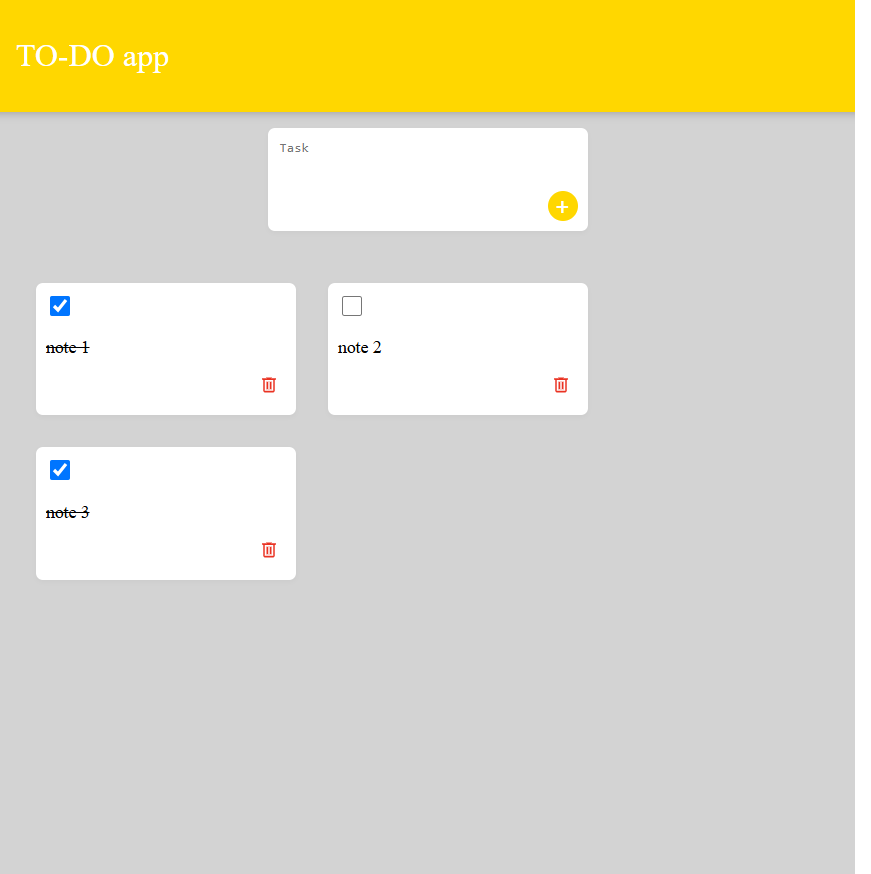
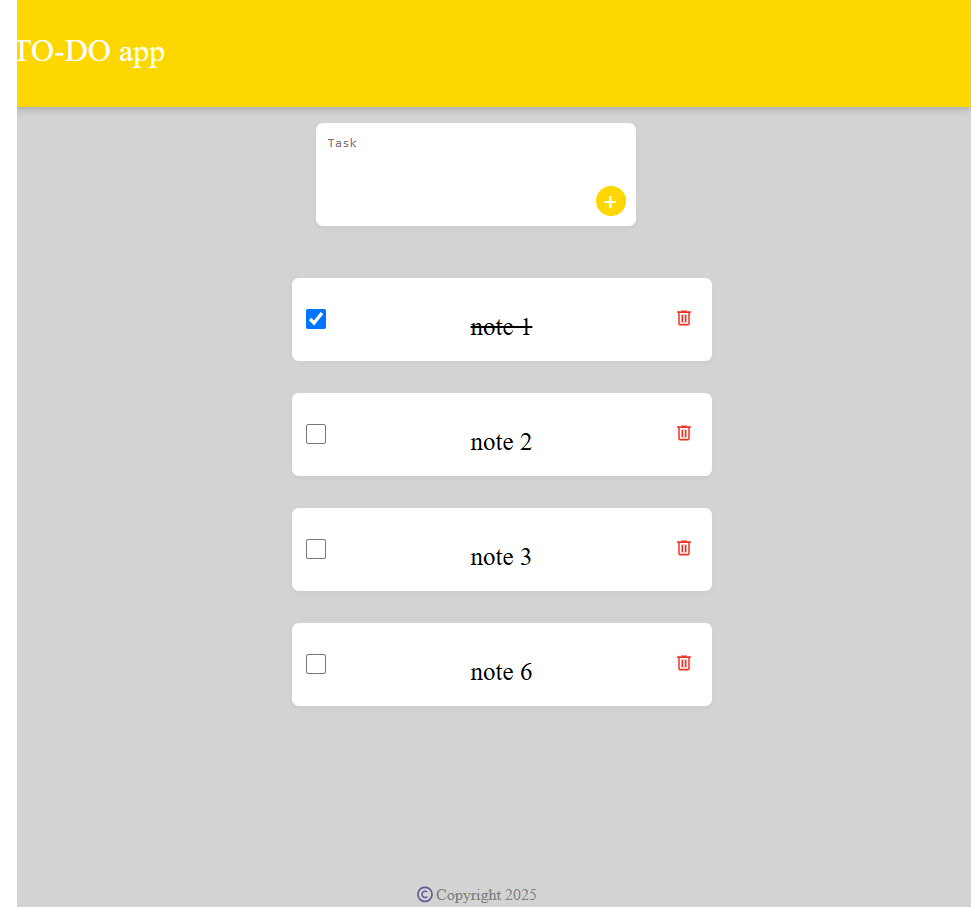
changed layout from grid to list

Changed region(s): [[0.0, 0.0, 1.0, 1.0], [0.434, 0.9577, 0.558, 1.0]]

diff --git a/script.js b/script.js
@@ -3,9 +3,12 @@
 document.addEventListener("DOMContentLoaded", function () {
     const form = document.querySelector(".create-area");
     const taskInput = document.querySelector("textarea");
+    const taskCard = document.createElement("div");
     const taskContainer = document.createElement("div");
-    taskContainer.classList.add("tasks");
+    taskContainer.classList.add("task-container");
+    taskCard.classList.add("tasks");
     document.querySelector("#root").insertBefore(taskContainer, document.querySelector("footer"));
+
 
 
     function loadTasks() {
@@ -26,6 +29,7 @@ document.addEventListener("DOMContentLoaded", function () {
     function addTask(content, completed = false) {
         if (content.trim() === "") return;
         const taskDiv = document.createElement("div");
+        
         taskDiv.classList.add("task");
 
 
@@ -58,7 +62,9 @@ document.addEventListener("DOMContentLoaded", function () {
         taskDiv.appendChild(checkbox);
         taskDiv.appendChild(taskText);
         taskDiv.appendChild(deleteBtn);
-        taskContainer.appendChild(taskDiv);
+        taskCard.appendChild(taskDiv);
+        taskContainer.appendChild(taskCard);
+
 
 
         if (completed) {

diff --git a/style.css b/style.css
@@ -95,6 +95,10 @@ body {
 
   .tasks {
     margin: 20px;
+    display:flexbox;
+    width: 400px;
+    align-self: center
+    ;
   }
   
   .task {
@@ -103,12 +107,18 @@ body {
     box-shadow: 0 2px 5px #ccc;
     padding: 10px;
     margin: 16px;
-    width: 240px;
+    width: 400px;
     float: left;
+    display: flex;
+    align-items: center;
+    justify-content: space-between;
+   
+    
   }
   
   .task p {
-    font-size: 1.1em;
+  
+    font-size: 25px;
     margin-bottom: 10px;
     white-space: pre-wrap;
     word-wrap: break-word;
@@ -149,6 +159,11 @@ body {
     color: red;
   }
   
+  .task-container {
+    display: flex;
+    flex-wrap: wrap;
+    justify-content: center;
+  }
 
 
   
